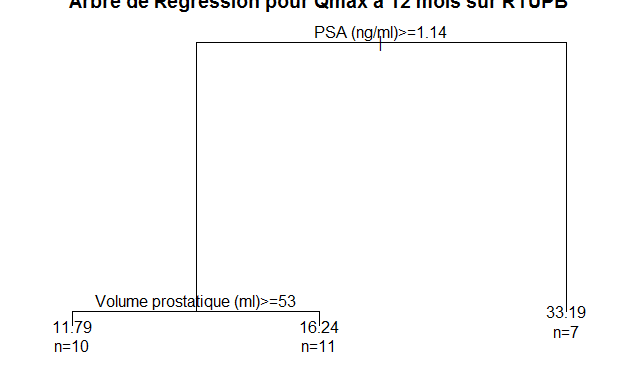
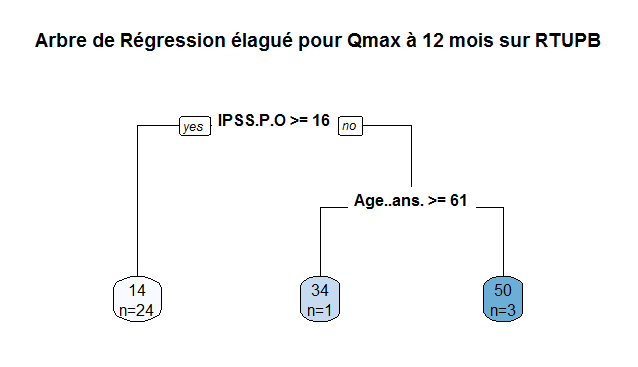
ligatures oe, Arbres complets + elagues pour RTUPB

diff --git a/latex/includes/regtree-rtupb-12mois.tex b/latex/includes/regtree-rtupb-12mois.tex
@@ -9,8 +9,7 @@
 %###############################################
 
 Dans les sections qui suivent, nous réutilisons la même méthode pour construire un arbre de régression:
-pour chacune des techniques opératoires (respectivement RTUPB, VPPBS et VAPOR) et à partir des données pré-opératoires précédemment utilisées et nettoyées des variables invariantes ou incomplètes, auxquelles on ajoutera
-la variable à prédire, nous effectuons un tirage aléatoire pour créer deux ensembles de données:
+pour chacune des techniques opératoires (respectivement RTUPB, VPPBS et VAPOR) et à partir des données pré-opératoires précédemment utilisées et nettoyées des variables invariantes ou incomplètes, auxquelles on ajoutera la variable à prédire, nous effectuons un tirage aléatoire pour créer deux ensembles de données:
 \begin{itemize}
 \item un ensemble d'apprentissage représentant 80\% des patients opérés par une technique. A partir de cet ensemble, nous inférerons un arbre de régression en utilisant le package rpart sous R.
 \item un ensemble de validation représentant 20\% des patients opérés par la même technique.
@@ -18,90 +17,41 @@ la variable à prédire, nous effectuons un tirage aléatoire pour créer deux e
 Les variables IPSS et QoL seront traitées comme des variables ordinales, tandis que la variable Qmax sera
 traitée comme une variable linéaire.
 
-\subsubsection{RTUPB: QoL à 12 mois}
-
-L'arbre de régression obtenu pour la variable QoL à 12 mois (colonne QoL\_\_4) met en \{oe}uvre une seule variable (Cf. figure~\ref{fig-rtupb-regtree-qol12}). Les feuilles de l'arbre représentent, en première ligne, la valeur prédite (la plus probable) pour QoL à 12 mois. La ligne suivante indique les probabilités pour chacun des 3 niveaux constatés sur l'échantillon d'apprentissage pour QoL à 12 mois, c'est-à-dire respectivement 0/1/2. Par exemple en cas d'IPSS pré-opératoire à 30, l'arbre de régression conduit à la feuille en bas à droite et prédit une valeur QoL à 2 avec une probabilité de 53\%.
-
-Nous vérifions le rôle et le poids d'autres variables dans cet arbre de régression:
-\begin{lstlisting}[language=R]
-> dt$variable.importance
-              IPSS P.O              Age (ans) Délai ablation (jours) 
-              3.710944               2.061636               2.061636 
-               QoL P.O             Anesthésie        Qmax P.O (ml/s) 
-              2.061636               1.649308               1.649308 
-\end{lstlisting}
-
-
-\begin{figure}[H]
-\centering
-\includegraphics[width=0.75\textwidth]{../Fig/RTUPB/rtupb-regtree-qol12.png}
-\caption{RTUPB: Arbre de régression pour QoL à 12 mois}
-\label{fig-rtupb-regtree-qol12}
-\end{figure}
-
-\begin{figure}[H]
-\centering
-\includegraphics[width=0.75\textwidth]{../Fig/RTUPB/rtupb-regtree-predict-qol12.png}
-\caption{RTUPB: Prévision pour QoL à 12 mois}
-\label{fig-rtupb-regtree-predict-qol12}
-\end{figure}
-
-\begin{figure}[H]
-\centering
-\includegraphics[width=0.75\textwidth]{../Fig/RTUPB/rtupb-regtree-test-qol12.png}
-\caption{RTUPB: Valeurs Test pour QoL à 12 mois}
-\label{fig-rtupb-regtree-test-qol12}
-\end{figure}
-
-En appliquant cet arbre sur l'ensemble de tests, nous obtenons pour chaque patient une table de probabilités (figure~\ref{fig-rtupb-regtree-predict-qol12}) pour chacune des valeurs QoL 0/1/2. On peut alors comparer les prédictions (les valeurs les plus probables) avec les valeurs de référence (figure~\ref{fig-rtupb-regtree-test-qol12}). Celles-ci sont correctes pour 4 patients sur 8, et incorrectes pour les 4 autres (20, 29, 5 et 21). Nous obtenons la table de correspondance suivante, entre valeurs de référence et valeurs de prédiction:
-
-\begin{lstlisting}[language=R]
-> table(validation = testQoL$QoL__4, prediction =  predict(dt, testQoL, type="class"))
-           prediction
-validation 0 1 2
-         0 0 2 1
-         1 0 0 1
-         2 0 0 4
-\end{lstlisting}
-Soit un taux d'erreur de 50%
-
-Afin d'améliorer les résultats de prédiction, il nous faudrait répéter l'opération et utiliser une forêt d'arbres de régression. La prédiction utilisée sera alors la prédiction moyenne de l'ensemble des arbres de la forêt. Nous obtenons alors une nouvelle table de correspondance:
-
-\begin{lstlisting}[language=R]
-> table(validation = testQoL$QoL__4, prediction =  predict(rf, testQoL))
-          prediction
-validation 0 1 2
-         0 1 1 1
-         1 0 1 0
-         2 0 0 4
-\end{lstlisting}
-Soit un taux d'erreur moindre, de 25%
+Pour chaque variable et chaque base, nous comparerons les résultats obtenus par un arbre de régression (inféré par élagage d'un arbre "complet") et les résultats obtenus par une forêt aléatoire d'arbres de régression.
 
 \subsubsection{RTUPB: IPSS à 12 mois}
 
-L'arbre de régression obtenu pour la variable IPSS à 12 mois (colonne IPSS\_\_4) met en \{oe}uvre une seule variable (Cf. figure~\ref{fig-rtupb-regtree-ipss12}).
-Nous vérifions le moindre rôle d'autres variables:
-\begin{lstlisting}[language=R]
-dt$variable.importance
-            caillotage            PSA (ng/ml)              Age (ans) 
-              2.992857               1.496429               1.122321 
-Délai ablation (jours)               IPSS P.O                QoL P.O 
-              1.122321               1.122321               1.122321 
-\end{lstlisting}
+L'arbre de régression complet obtenu pour la variable IPSS à 12 mois (colonne IPSS\_\_4) met en {\oe}uvre 6 variables (Cf. figure~\ref{fig-rtupb-full-regtree-ipss12}).
 Les feuilles de l'arbre représentent, en première ligne, la valeur prédite (la plus probable) pour IPSS à 12 mois. La ligne suivante indique les probabilités pour chacun des 3 niveaux constatés sur l'échantillon d'apprentissage pour IPSS à 12 mois, c'est-à-dire respectivement 1/2/3. Par exemple en cas de caillotage (valeur == 1), l'arbre de régression conduit à la feuille en bas à gauche et prédit une valeur IPSS à 1 avec une probabilité de 88\%.
 
-En appliquant cet arbre sur l'ensemble de tests, nous obtenons pour chaque patient une table de probabilités (figure~\ref{fig-rtupb-regtree-predict-ipss12}) pour chacune des valeurs IPSS 1/2/3/4. Les prédictions (valeurs
+\begin{figure}[H]
+\centering
+\includegraphics[width=0.75\textwidth]{../Fig/RTUPB/rtupb-full-regtree-ipss12.png}
+\caption{RTUPB: Arbre de régression pour IPSS à 12 mois}
+\label{fig-rtupb-full-regtree-ipss12}
+\end{figure}
+
+Afin de simplifier l'arbre, nous vérifions le facteur d'amélioration (complexity parameter) apporté par chaque embranchement de l'arbre, figure~\ref{fig-rtupb-regtree-optim-ipss12}. Nous élaguons l'arbre au niveau du coude d'inflexion de la courbe, soit environ à cp=0.13, pour obtenir un arbre simplifié  (figure~\ref{fig-rtupb-regtree-predict-ipss12}).
+
+\begin{figure}[H]
+\centering
+\includegraphics[width=0.75\textwidth]{../Fig/RTUPB/rtupb-regtree-optim-ipss12.png}
+\caption{RTUPB: Optimisation de l'arbre de régression pour IPSS à 12 mois}
+\label{fig-rtupb-regtree-optim-ipss12}
+\end{figure}
+
+En appliquant cet arbre élagué  (figure~\ref{fig-rtupb-regtree-predict-ipss12}) sur l'ensemble de tests, nous obtenons pour chaque patient une table de probabilités pour chacune des valeurs IPSS 1/2/3/4. Les prédictions (valeurs
 les plus probables) sont correctes pour tous les patients à l'exception des patients 20 et 29 pour lesquels la valeur référence IPSS à 12 mois est de 1.
 Nous obtenons la table de correspondance suivante, entre valeurs de référence et valeurs de prédiction:
 
 \begin{lstlisting}[language=R]
 > table(validation = testIPSS$IPSS__4, prediction =  predict(dt, testIPSS, type="class"))
-           prediction
+          prediction
 validation 1 2 3 4
          1 0 2 0 0
-         2 0 6 0 0
+         2 0 5 1 0
 \end{lstlisting}
-Soit un taux d'erreur de 25\%
+Soit un taux d'erreur de 37.5\%.
 
 \begin{figure}[H]
 \centering
@@ -126,11 +76,84 @@ En utilisant une forêt aléatoire d'arbres de régression, nous obtenons une no
          # 1 1 1 0 0
          # 2 0 4 1 1
 \end{lstlisting}
-Soit un taux d'erreur de 37,5\%. Si toutefois une marge d'erreur de prédiction d'un point est médicalement acceptable sur l'indice IPSS, le taux d'erreur deviendrait alors de 12,5\%.
+Soit un taux d'erreur de 37,5\%. Si toutefois une marge d'erreur de prédiction d'un point est acceptable sur l'indice IPSS (hypothèse à valider par un avis médical), le taux d'erreur serait alors ramené à 12,5\%.
+
+\subsubsection{RTUPB: QoL à 12 mois}
+
+L'arbre de régression obtenu pour la variable QoL à 12 mois (colonne QoL\_\_4) met en {\oe}uvre cinq variables (Cf. figure~\ref{fig-rtupb-full-regtree-qol12}). Les feuilles de l'arbre représentent, en première ligne, la valeur prédite (la plus probable) pour QoL à 12 mois. La ligne suivante indique les probabilités pour chacun des 3 niveaux constatés sur l'échantillon d'apprentissage pour QoL à 12 mois, c'est-à-dire respectivement 0/1/2. 
+
+\begin{figure}[H]
+\centering
+\includegraphics[width=0.75\textwidth]{../Fig/RTUPB/rtupb-regtree-qol12.png}
+\caption{RTUPB: Arbre de régression complet pour QoL à 12 mois}
+\label{fig-rtupb-regtree-qol12}
+\end{figure}
+
+Nous vérifions l'amélioration apportée par chaque embranchement de cet arbre de régression complet, figure~\ref{fig-rtupb-regtree-optim-qol12}. Un élagage au point d'inflexion (cp=0.15) permet d'obtenir un arbre simplifié, représenté figure~\ref{fig-rtupb-regtree-qol12}.
+
+\begin{figure}[H]
+\centering
+\includegraphics[width=0.75\textwidth]{../Fig/RTUPB/rtupb-regtree-optim-qol12.png}
+\caption{RTUPB: Optimisation de l'arbre de régression pour QoL à 12 mois}
+\label{fig-rtupb-regtree-optim-qol12}
+\end{figure}
+
+\begin{figure}[H]
+\centering
+\includegraphics[width=0.75\textwidth]{../Fig/RTUPB/rtupb-regtree-qol12.png}
+\caption{RTUPB: Arbre de régression élagué pour QoL à 12 mois}
+\label{fig-rtupb-regtree-qol12}
+\end{figure}
+
+\begin{figure}[H]
+\centering
+\includegraphics[width=0.75\textwidth]{../Fig/RTUPB/rtupb-regtree-predict-qol12.png}
+\caption{RTUPB: Prévision pour QoL à 12 mois}
+\label{fig-rtupb-regtree-predict-qol12}
+\end{figure}
+
+\begin{figure}[H]
+\centering
+\includegraphics[width=0.75\textwidth]{../Fig/RTUPB/rtupb-regtree-test-qol12.png}
+\caption{RTUPB: Valeurs Test pour QoL à 12 mois}
+\label{fig-rtupb-regtree-test-qol12}
+\end{figure}
+
+En appliquant cet arbre sur l'ensemble de tests, nous obtenons pour chaque patient une table de probabilités (figure~\ref{fig-rtupb-regtree-predict-qol12}) pour chacune des valeurs QoL 0/1/2. On peut alors comparer les prédictions (les valeurs les plus probables) avec les valeurs de référence (figure~\ref{fig-rtupb-regtree-test-qol12}). Celles-ci sont correctes pour 4 patients sur 8, et incorrectes pour les 4 autres (20, 29, 5 et 21). Nous obtenons la table de correspondance suivante, entre valeurs de référence et valeurs de prédiction:
+
+\begin{lstlisting}[language=R]
+> table(validation = testQoL$QoL__4, prediction =  predict(dt, testQoL, type="class"))
+           prediction
+validation 0 1 2
+         0 0 2 1
+         1 0 1 0
+         2 0 0 4
+\end{lstlisting}
+Soit un taux d'erreur de 37,5\%.
+
+Afin d'améliorer les résultats de prédiction, il nous faudrait répéter l'opération et utiliser une forêt d'arbres de régression. La prédiction utilisée sera alors la prédiction moyenne de l'ensemble des arbres de la forêt. Nous obtenons alors une nouvelle table de correspondance:
+
+\begin{lstlisting}[language=R]
+> table(validation = testQoL$QoL__4, prediction =  predict(rf, testQoL))
+          prediction
+validation 0 1 2
+         0 1 1 1
+         1 0 1 0
+         2 0 0 4
+\end{lstlisting}
+Soit un taux d'erreur moindre, de 25%
+
 
 \subsubsection{RTUPB: Qmax à 12 mois}
 
-L'arbre de régression obtenu pour la variable Qmax à 12 mois (colonne Qmax (ml/s)\_\_3) met en oeuvre 2 variables (Cf. figure~\ref{fig-rtupb-regtree-qmax12}). Les feuilles de l'arbre représentent, en première ligne, la valeur approximative pour Qmax à 12 mois. La ligne suivante indique le nombre de patients de l'échantillon d'apprentissage correspondant à cette feuille. 
+\begin{figure}[H]
+\centering
+\includegraphics[width=0.75\textwidth]{../Fig/RTUPB/rtupb-regtree-optim-qmax12.png}
+\caption{RTUPB: Optimisation de l'élagage de l'arbre complet pour Qmax à 12 mois}
+\label{fig-rtupb-regtree-optim-qmax12}
+\end{figure}
+
+L'arbre de régression obtenu pour la variable Qmax à 12 mois (colonne Qmax (ml/s)\_\_3), après élagage (Cf. figure pour le choix d'élagage optimal), met en {\oe}uvre 2 variables (Cf. figure~\ref{fig-rtupb-regtree-qmax12}). Les feuilles de l'arbre représentent, en première ligne, la valeur approximative pour Qmax à 12 mois. La ligne suivante indique le nombre de patients de l'échantillon d'apprentissage correspondant à cette feuille. 
 
 \begin{figure}[H]
 \centering

diff --git a/latex/includes/regtree-vapor-12mois.tex b/latex/includes/regtree-vapor-12mois.tex
@@ -96,7 +96,7 @@ Soit un taux d'erreur de 12,5\%.
 
 \subsubsection{VAPOR: Qmax à 12 mois}
 
-L'arbre de régression obtenu pour la variable Qmax à 12 mois (colonne Qmax (ml/s)\_\_3) met en oeuvre une seule variable (Cf. figure~\ref{fig-vapor-regtree-qmax12}). Les feuilles de l'arbre représentent, en première ligne, la valeur approximative pour Qmax à 12 mois. La ligne suivante indique le nombre de patients de l'échantillon d'apprentissage correspondant à cette feuille. 
+L'arbre de régression obtenu pour la variable Qmax à 12 mois (colonne Qmax (ml/s)\_\_3) met en {\oe}uvre une seule variable (Cf. figure~\ref{fig-vapor-regtree-qmax12}). Les feuilles de l'arbre représentent, en première ligne, la valeur approximative pour Qmax à 12 mois. La ligne suivante indique le nombre de patients de l'échantillon d'apprentissage correspondant à cette feuille. 
 
 \begin{figure}[H]
 \centering

diff --git a/latex/includes/regtree-vppbs-12mois.tex b/latex/includes/regtree-vppbs-12mois.tex
@@ -109,7 +109,7 @@ Soit un taux d'erreur de 43\%.
 
 \subsubsection{VPPBS: Qmax à 12 mois}
 
-L'arbre de régression obtenu pour la variable Qmax à 12 mois (colonne Qmax (ml/s)\_\_3) met en oeuvre une seule variable (Cf. figure~\ref{fig-vppbs-regtree-qmax12}). Les feuilles de l'arbre représentent, en première ligne, la valeur approximative pour Qmax à 12 mois. La ligne suivante indique le nombre de patients de l'échantillon d'apprentissage correspondant à cette feuille. 
+L'arbre de régression obtenu pour la variable Qmax à 12 mois (colonne Qmax (ml/s)\_\_3) met en {\oe}uvre une seule variable (Cf. figure~\ref{fig-vppbs-regtree-qmax12}). Les feuilles de l'arbre représentent, en première ligne, la valeur approximative pour Qmax à 12 mois. La ligne suivante indique le nombre de patients de l'échantillon d'apprentissage correspondant à cette feuille. 
 
 \begin{figure}[H]
 \centering
